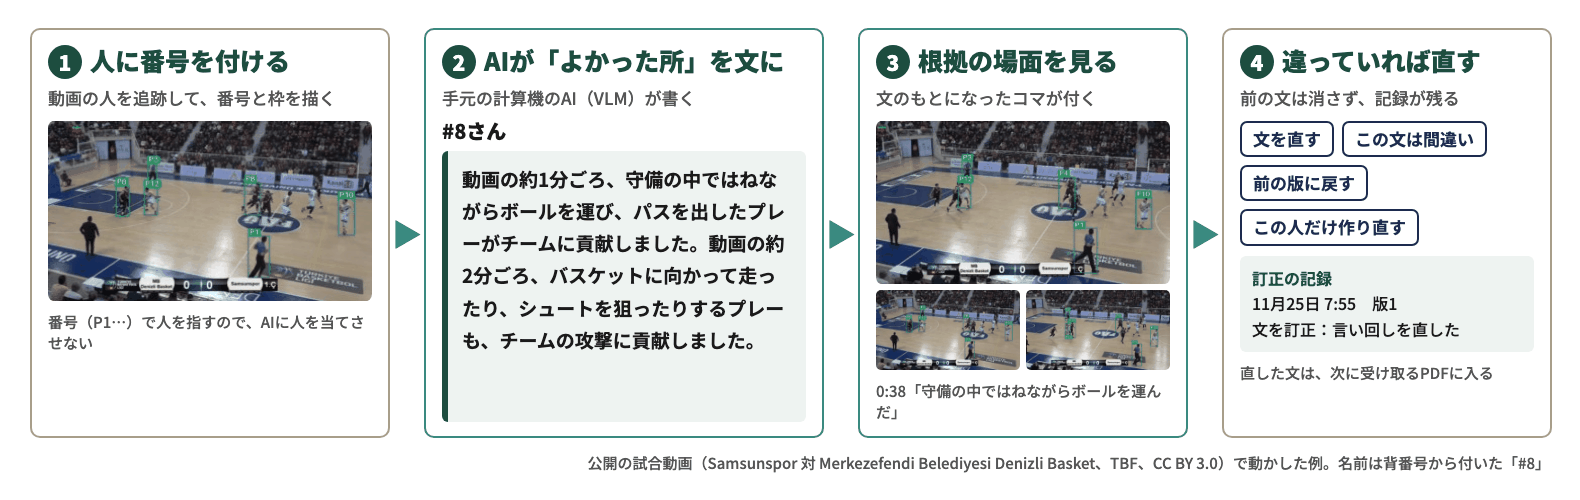
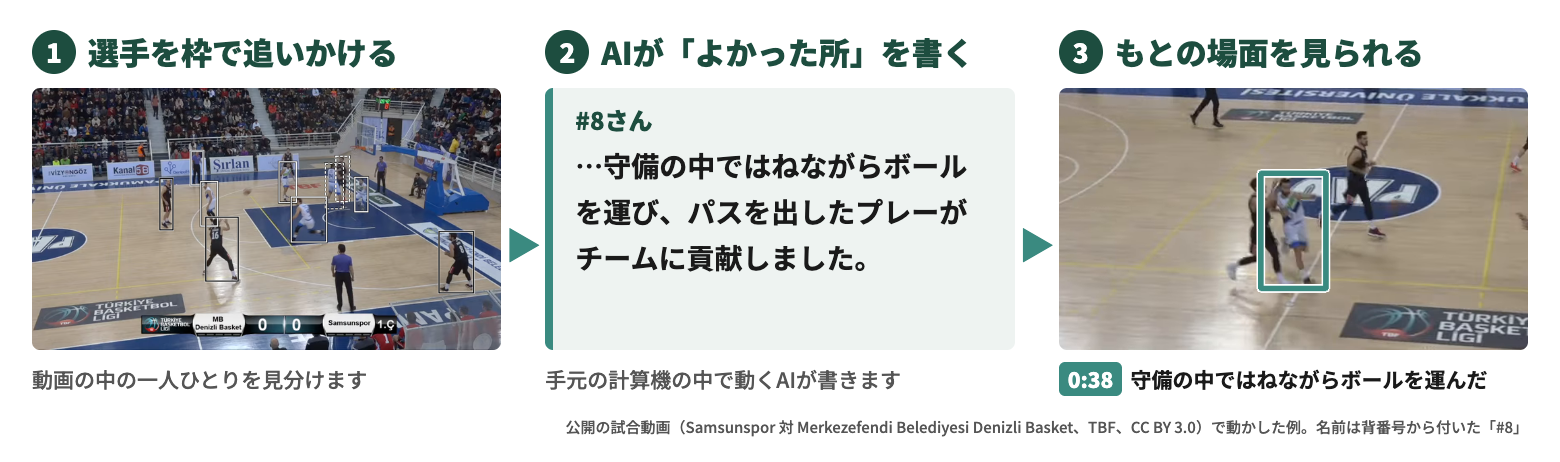
README: the overview figure in three steps
Track each player, the AI writes the good points, see the scene behind them.
Larger pictures, a #8 box on the 0:38 scene, fewer words.

diff --git a/README.md b/README.md
@@ -29,7 +29,7 @@
 NiceMill は、動画をローカルの VLM（画像と言葉を扱う AI）に見せて、選手（参加者）ごとの
 ポジティブ・フィードバック（よかった所を伝える文）を作ります。
 
-<p align="center"><img src="docs/images/readme_overview.png" width="900" alt="4つの段階：1 人に番号を付ける、2 AIが「よかった所」を文に、3 根拠の場面を見る、4 違っていれば直す"></p>
+<p align="center"><img src="docs/images/readme_overview.png" width="900" alt="3つの段階：1 選手を枠で追いかける、2 AIが「よかった所」を書く、3 もとの場面を見られる"></p>
 
 | 特徴 | 内容 |
 |---|---|
@@ -290,7 +290,7 @@ NiceMill/
   - 車いすバスケットボールの動画（Splash tv、Wikimedia Commons、[CC BY-SA 4.0](https://creativecommons.org/licenses/by-sa/4.0/)）
 - `docs/images/` の画像は、上の1本目のクリップ（約3分の部分）を NiceMill で解析した作業の画面です（CC BY 3.0、作者 TBF、改変あり：
   コマを切り出し、追跡の枠と番号、画面の文字を重ねたもの）。`readme_step5_*.png` は、その画面の一部を切り出したものです。
-  `readme_demo.gif` は、同じクリップで NiceMill の追跡の枠を表示した画面を録画したもので、`readme_overview.png` は、それらの画面から組んだ説明の図です。
+  `readme_demo.gif` は、同じクリップで NiceMill の追跡の枠を表示した画面を録画したもので、`readme_overview.png` は、同じクリップの映像と画面の文から組んだ説明の図です。
   名前は、NiceMill が背番号の読み取りから付けた「#8」などで、実名は入っていません。文は AI が作ったもので、
   「1回直したあと」の画面は、説明のために一度言い回しを直したものです。
 - `docs/court_reg/samsunspor_tbf.json` は、上の1本目のクリップの上で測ったコートの登録です。
@@ -451,7 +451,7 @@ wheelchair basketball (Splash tv, Wikimedia Commons, CC BY-SA 4.0). The images i
 which NiceMill analysed about three minutes of the first clip (CC BY 3.0, author TBF, modified: frames cut out, tracking
 boxes, numbers and screen text drawn over them); `readme_step5_*.png` are parts of those screens, `readme_demo.gif` is a recording
 of NiceMill's tracking boxes on the same clip, and `readme_overview.png` is an explanatory figure
-built from those screens. Names such as "#8" were
+built from the same clip and the text on those screens. Names such as "#8" were
 given by NiceMill from jersey numbers (no real names); the texts were written by the AI, and the corrected one was edited
 once to show the screen.
 
